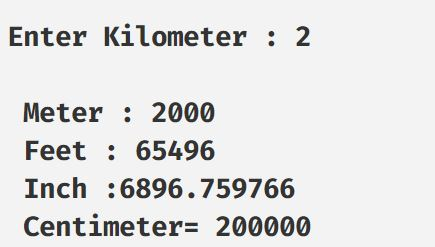
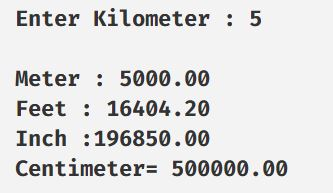
changes

diff --git a/docs/data-structure/Practical-16.md b/docs/data-structure/Practical-16.md
@@ -101,10 +101,13 @@ void addAtBegin()
 
 void addAtAfter()
 {
-    struct node *travel = head, *temp;
+    struct node *travel = head;
+    struct node *temp;
     int loc, len, i = 1;
+
     printf("Enter Location : ");
-    scanf("%d", &loc); // 7
+    scanf("%d", &loc);
+
     len = length();
     if (loc > len)
     {
@@ -118,9 +121,12 @@ void addAtAfter()
             travel = travel->link;
             i++;
         }
+
         temp = (struct node *)malloc(sizeof(struct node));
+
         printf("Enter Data To Insert in Node :");
         scanf("%d", &temp->data);
+
         temp->link = NULL;
 
         temp->link = travel->link;
@@ -128,17 +134,18 @@ void addAtAfter()
     }
 }
 
-int length()
+void length()
 {
     int count = 0;
     struct node *temp;
     temp = head;
-    while (temp != NULL)
+    while ( temp != NULL )
     {
         count++;
         temp = temp->link;
     }
-    return count;
+    printf("%d", count);
+
 }
 
 void deleteNode()

diff --git a/docs/c-language/Practical-07.md b/docs/c-language/Practical-07.md
@@ -9,23 +9,22 @@ sidebar_position: 7
 #include <conio.h>
 void main()
 {
-    long int km, f, m, cm;
-    float i;
+    float km, f, m, cm, i;
 
     clrscr();
 
     printf("Enter Kilometer : ");
-    scanf("%ld", &km);
+    scanf("%f", &km);
 
     m = km * 1000;
-    f = km * 32748;
-    i = km * 3448.38;
+    f = km * 3280.84;
+    i = km * 39370;
     cm = km * 100000;
 
-    printf("Meter : %ld \n", m);
-    printf("Feet : %ld \n", f);
-    printf("\n Inch :%f \n", i);
-    printf("\n Centimeter= %ld \n", cm);
+    printf("Meter : %.2f \n", m);
+    printf("Feet : %.2f \n", f);
+    printf("\n Inch :%.2f \n", i);
+    printf("\n Centimeter= %.2f \n", cm);
 }
 ```
 

diff --git a/docs/sql/Practical-24.md b/docs/sql/Practical-24.md
@@ -1,0 +1,22 @@
+---
+sidebar_position: 24
+---
+
+#### 24. List all customers serviced by salesman with commission above 12%.
+
+```sql
+SELECT
+    onum,
+    sname,
+    cname
+FROM
+    orders
+    INNER JOIN customer ON orders.cnum = customer.cnum
+    INNER JOIN salesman ON orders.snum = salesman.snum
+WHERE
+    customer.city != salesman.city;
+```
+
+#### Output:
+
+![d](outputs\24.jpg)

diff --git a/docs/sql/Practical-23.md b/docs/sql/Practical-23.md
@@ -1,0 +1,20 @@
+---
+sidebar_position: 23
+---
+
+#### 23. List all orders with the names of their customer and salesman.
+
+```sql
+SELECT
+    onum,
+    sname,
+    cname
+FROM
+    orders
+    INNER JOIN customer ON orders.cnum = customer.cnum
+    INNER JOIN salesman ON orders.snum = salesman.snum;
+```
+
+#### Output:
+
+![d](outputs\23.jpg)

diff --git a/docs/sql/Practical-25.md b/docs/sql/Practical-25.md
@@ -1,0 +1,21 @@
+---
+sidebar_position: 25
+---
+
+#### 25. List all customers serviced by salesman with commission above 12%.
+
+```sql
+SELECT
+    cname,
+    sname,
+    commission
+FROM
+    customer
+    INNER JOIN salesman ON customer.snum = salesman.snum
+WHERE
+    commission > 12;
+```
+
+#### Output:
+
+![d](outputs\25.jpg)
